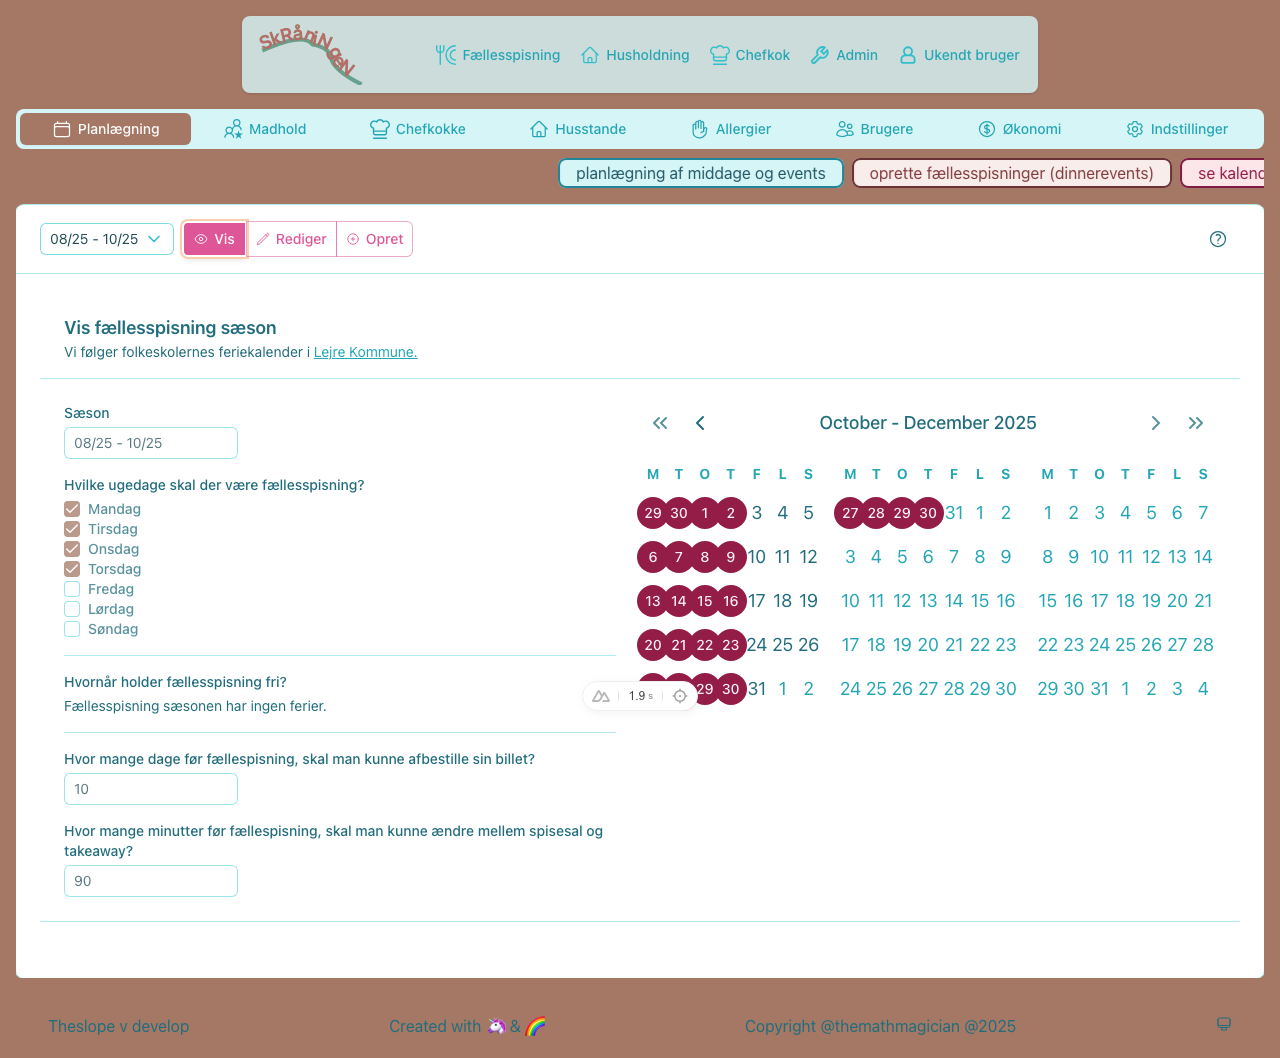
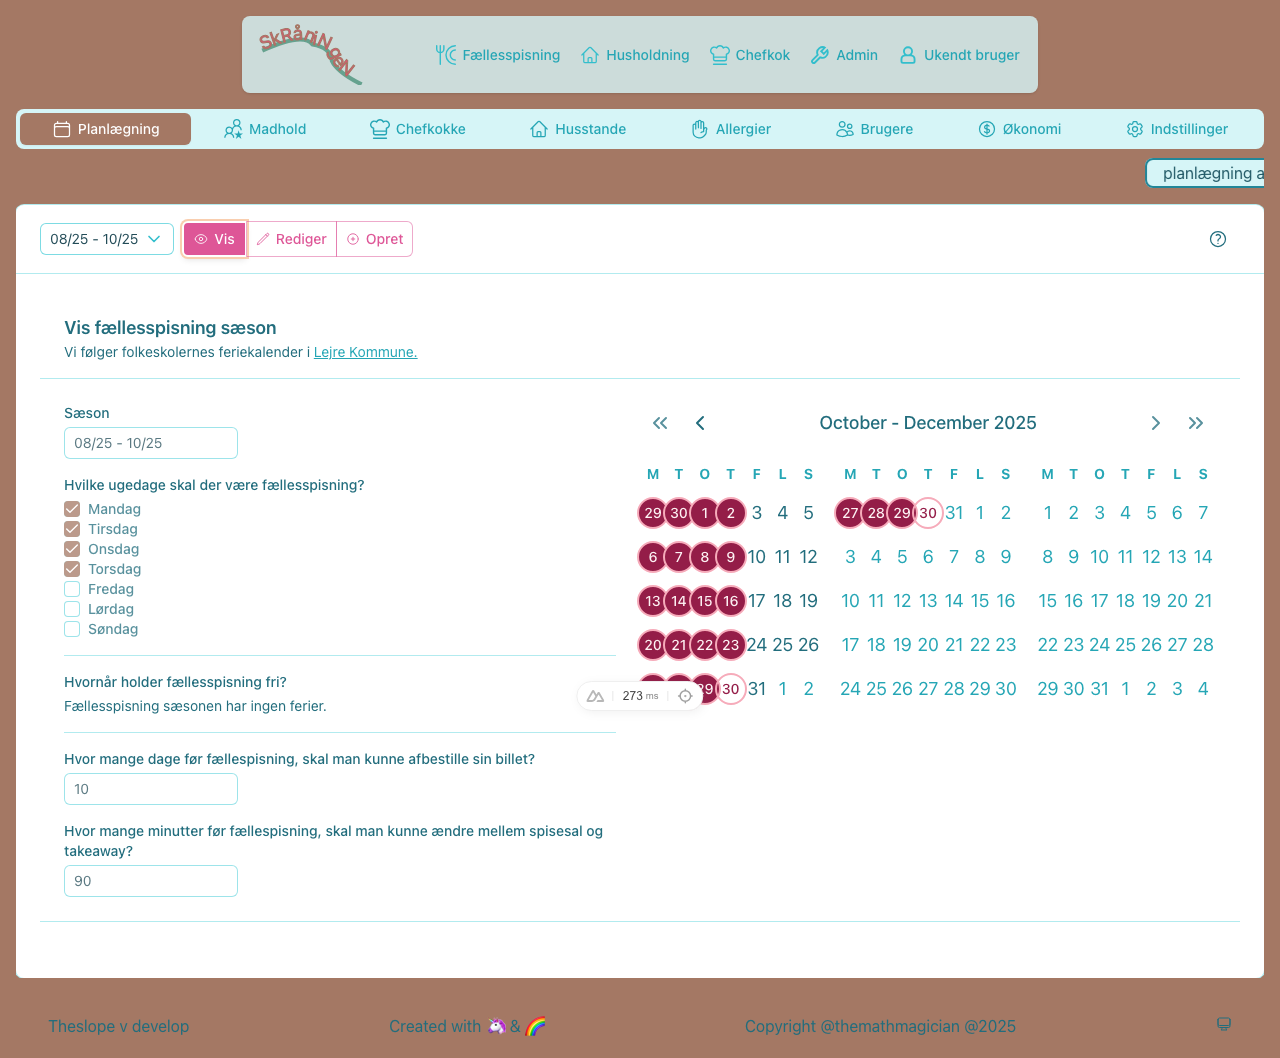
Fixed repository error (cant brute save relations in season)

Changed region(s): [[0.4375, 0.1248, 1.0, 0.1871], [0.5, 0.4679, 0.5938, 0.6862], [0.6562, 0.4679, 0.75, 0.4991]]

diff --git a/server/data/prismaRepository.ts b/server/data/prismaRepository.ts
@@ -463,13 +463,15 @@ export async function deleteSeason(d1Client: D1Database, id: number): Promise<Se
     }
 }
 
-export async function createSeason(d1Client: D1Database, seasonData: SeasonCreate): Promise<Season> {
+export async function createSeason(d1Client: D1Database, seasonData: SerializedSeason): Promise<Season> {
     console.info(`🌞 > SEASON > [CREATE] Creating season ${seasonData.shortName}`)
     const prisma = await getPrismaClientConnection(d1Client)
+    // Exclude id and read-only relation fields from create
+    const {id, dinnerEvents, CookingTeams, ticketPrices, ...createData} = seasonData
 
     try {
         const newSeason = await prisma.season.create({
-            data: seasonData
+            data: createData
         })
 
         console.info(`🌞 > SEASON > [CREATE] Successfully created season ${newSeason.shortName} with ID ${newSeason.id}`)
@@ -484,7 +486,8 @@ export async function createSeason(d1Client: D1Database, seasonData: SeasonCreat
 export async function updateSeason(d1Client: D1Database, seasonData: Season): Promise<Season> {
     console.info(`🌞 > SEASON > [UPDATE] Updating season with ID ${seasonData.id}`)
     const prisma = await getPrismaClientConnection(d1Client)
-    const {id, ...updateData} = seasonData
+    // Exclude id and read-only relation fields from update
+    const {id, dinnerEvents, CookingTeams, ticketPrices, ...updateData} = seasonData
     try {
 
         const updatedSeason = await prisma.season.update({
@@ -658,7 +661,7 @@ export async function fetchTeam(d1Client: D1Database, id: number): Promise<any |
     }
 }
 
-export async function createTeam(d1Client: D1Database, teamData: CookingTeamCreateInput): Promise<CookingTeam> {
+export async function createTeam(d1Client: D1Database, teamData: CookingTeamCreate): Promise<CookingTeam> {
     console.info(`👥 > TEAM > [CREATE] Creating team ${teamData.name}`)
     const prisma = await getPrismaClientConnection(d1Client)
 
@@ -679,7 +682,7 @@ export async function createTeam(d1Client: D1Database, teamData: CookingTeamCrea
     }
 }
 
-export async function updateTeam(d1Client: D1Database, id: number, teamData: Partial<CookingTeamCreateInput>): Promise<CookingTeam> {
+export async function updateTeam(d1Client: D1Database, id: number, teamData: Partial<CookingTeamCreate>): Promise<CookingTeam> {
     console.info(`👥 > TEAM > [UPDATE] Updating team with ID ${id}`)
     const prisma = await getPrismaClientConnection(d1Client)
     try {
@@ -724,7 +727,7 @@ export async function deleteTeam(d1Client: D1Database, id: number): Promise<Cook
 // - Weak to CookingTeam (event can exist without assigned team)
 // - Weak to Inhabitant chef (event can exist without assigned chef)
 
-export async function saveDinnerEvent(d1Client: D1Database, dinnerEvent: DinnerEventCreateInput): Promise<DinnerEvent> {
+export async function saveDinnerEvent(d1Client: D1Database, dinnerEvent: DinnerEventCreate): Promise<DinnerEvent> {
     console.info(`🍽 > DINNER_EVENT > [SAVE] Saving dinner event ${dinnerEvent.menuTitle} on ${dinnerEvent.date}`)
     const prisma = await getPrismaClientConnection(d1Client)
 
@@ -803,7 +806,7 @@ export async function fetchDinnerEvent(d1Client: D1Database, id: number): Promis
     }
 }
 
-export async function updateDinnerEvent(d1Client: D1Database, id: number, dinnerEventData: Partial<DinnerEventCreateInput>): Promise<DinnerEvent> {
+export async function updateDinnerEvent(d1Client: D1Database, id: number, dinnerEventData: Partial<DinnerEventCreate>): Promise<DinnerEvent> {
     console.info(`🍽 > DINNER_EVENT > [UPDATE] Updating dinner event with ID ${id}`)
     const prisma = await getPrismaClientConnection(d1Client)
     try {

diff --git a/app/stores/plan.ts b/app/stores/plan.ts
@@ -110,6 +110,10 @@ export const usePlanStore = defineStore("Plan", () => {
                     headers: {'Content-Type': 'application/json'}
                 })
                 await loadSeasons()
+                // Refresh the selected season to get updated data
+                if (selectedSeasonId.value) {
+                    await refreshSelectedSeason()
+                }
             } catch (e: any) {
                 handleApiError(e, 'updateSeason')
                 throw e
